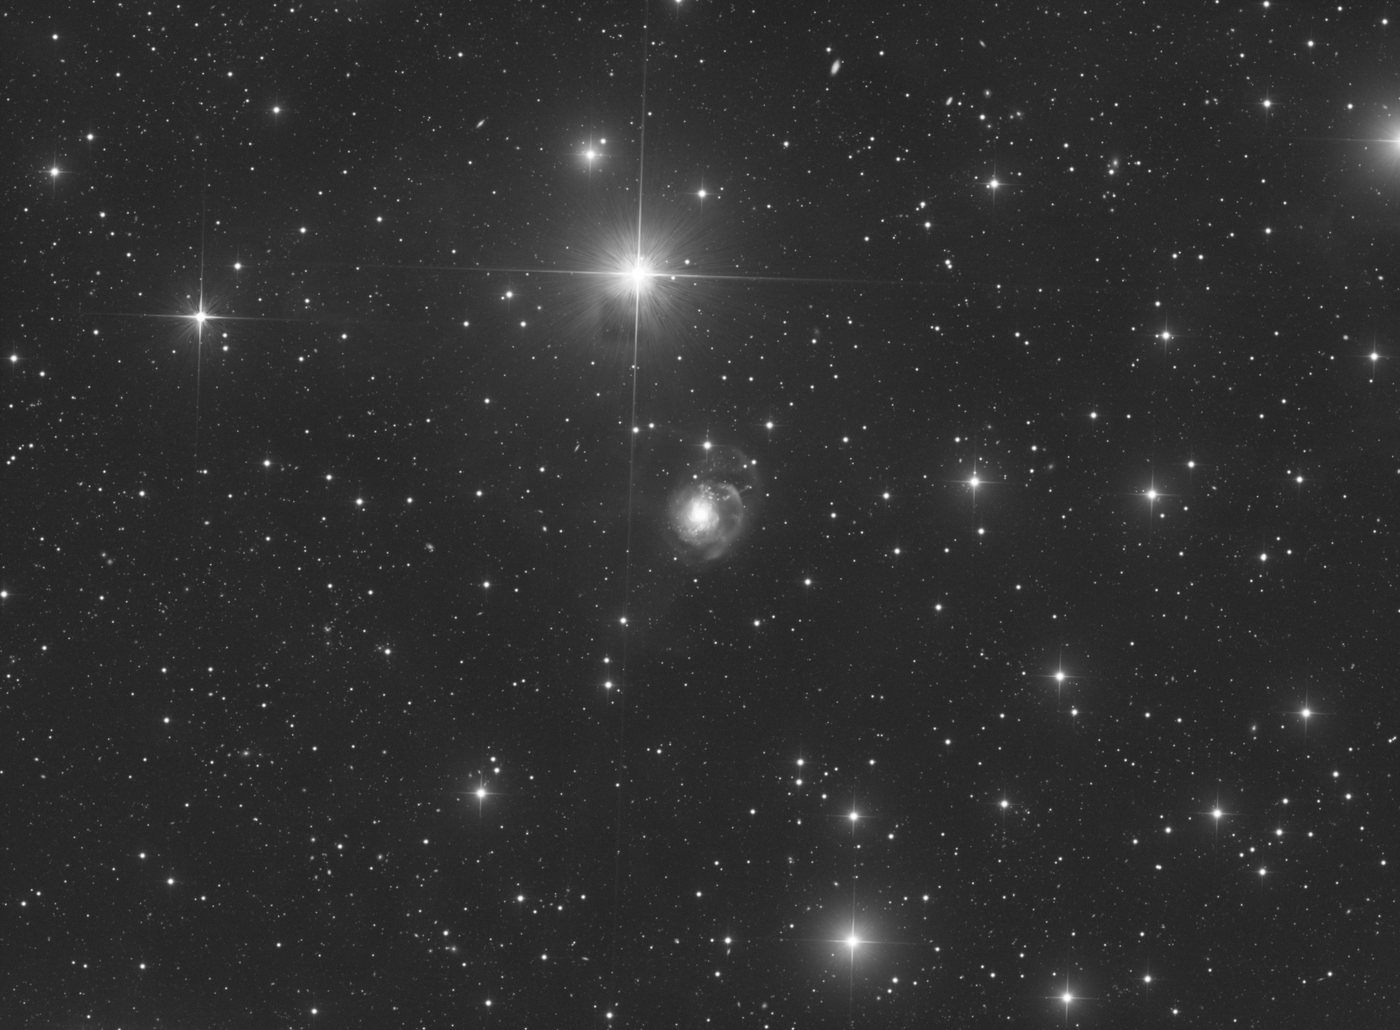
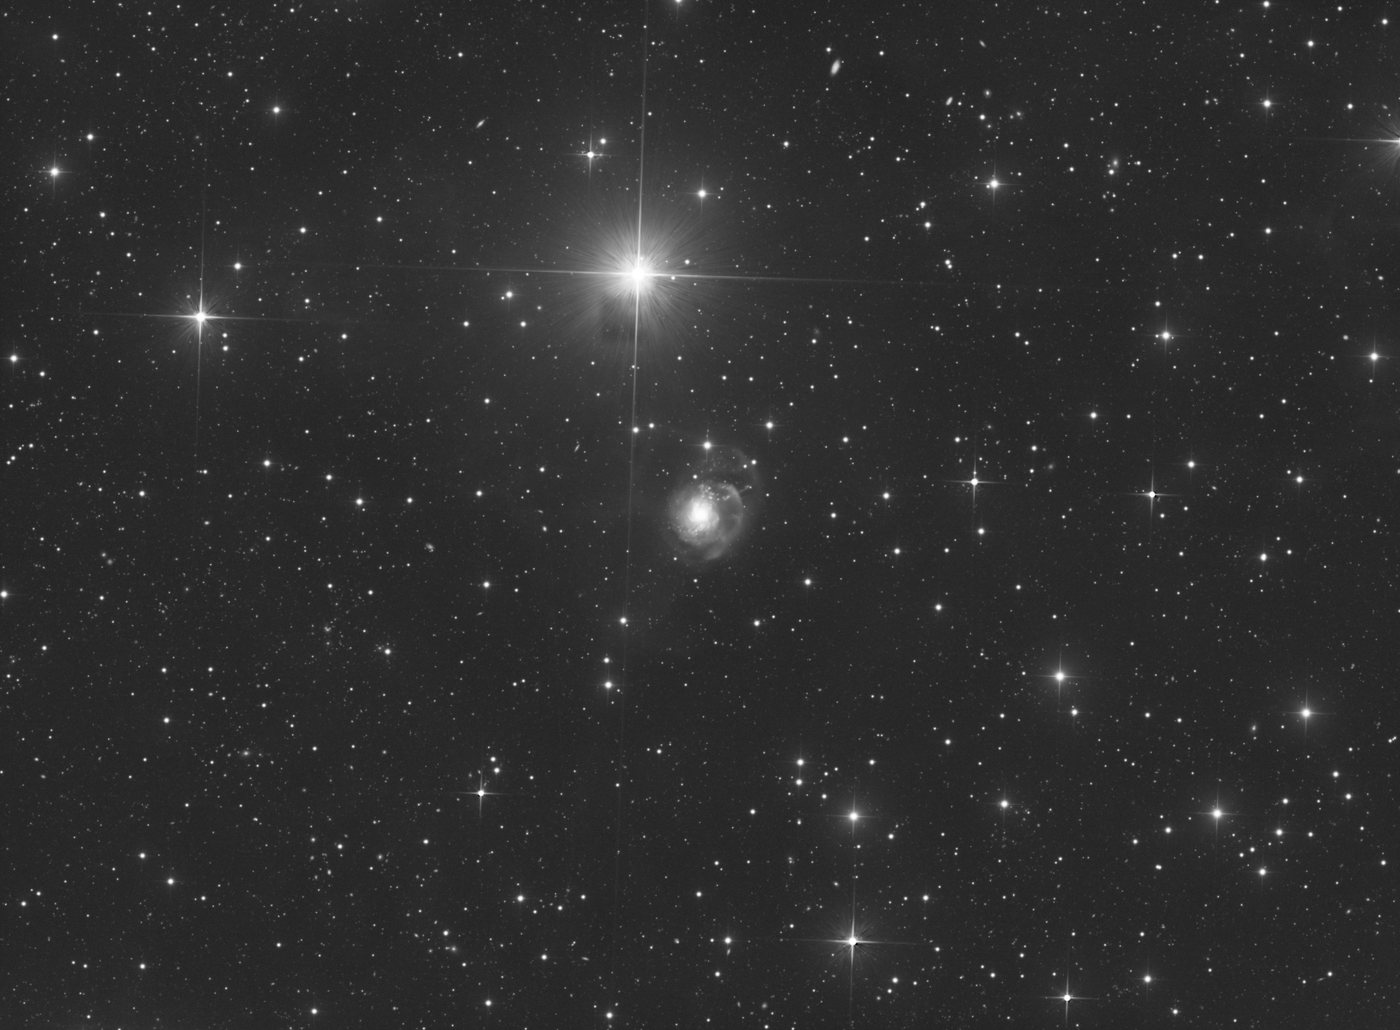
docs(dehalo): NGC 3310 with all eight stars and a star outside the frame
All detected stars ticked; a manual star at (11455, 1148), core r 15,
removes the halo at the right edge. Quick start shows how to add it;
new crops for the lower right field and the right edge.

diff --git a/docs/dehalo/examples/ngc-3310.md b/docs/dehalo/examples/ngc-3310.md
@@ -1,4 +1,4 @@
-# NGC 3310: only the two brightest stars
+# NGC 3310: a field-wide halo
 
 | | |
 |---|---|
@@ -7,8 +7,10 @@
 | Image | Luminance master, 11405 &times; 8388 px, 0.31"/px |
 | Preparation | GradientCorrection (default parameters) |
 
-HD 92095 and a second bright star are next to the galaxy NGC 3310. Their halos cover a large part of the field. The
-other detected stars have small halos that look natural, so we keep them: only stars 1 and 2 are ticked.
+HD 92095 and a second bright star are next to the galaxy NGC 3310. Their halos cover a large part of the field. Six
+smaller stars with saturated cores add their own halos. A ninth bright star is just outside the right edge of the
+frame; its halo and a diffraction spike come into the image at the top of the right edge. All eight detected stars
+are ticked, and the star outside the frame is added by hand.
 
 This is the same run as in the [Quick start](../quick-start.md).
 
@@ -19,7 +21,8 @@ Values that are different from the defaults are in **bold**.
 | Group | Setting | Value |
 |---|---|---|
 | Halo stars | Binning / Saturation / Min core r / Max stars | 4 / 0.95 / 6 / 8 |
-| Halo stars | Ticked stars | **1 and 2 only** |
+| Halo stars | Ticked stars | all 8 detected stars |
+| Halo stars | Manual star | **x 11455, y 1148, core r 15** (outside the frame) |
 | Model | Approach | Empirical profile + power-law tail |
 | Model | Fit inner radius / Max halo radius | 2.0 / **6952 px** |
 | Model | Profile smoothing / Iterations | 0.50 / 3 |
@@ -68,14 +71,40 @@ The second star (1800 &times; 1300 px crop):
 </img-comparison-slider>
 <div class="cmp-labels"><span>Before</span><span>After</span></div>
 
+The lower right part of the field with four of the smaller stars (5000 &times; 5400 px crop):
+
+<img-comparison-slider>
+  <img slot="first" src="../../assets/dehalo/ngc-3310/crop2_before.jpg" alt="Lower right part of the field before Dehalo">
+  <img slot="second" src="../../assets/dehalo/ngc-3310/crop2_after.jpg" alt="Lower right part of the field after Dehalo">
+</img-comparison-slider>
+<div class="cmp-labels"><span>Before</span><span>After</span></div>
+
+The top of the right edge, with the halo of the star outside the frame (1800 &times; 2000 px crop):
+
+<img-comparison-slider>
+  <img slot="first" src="../../assets/dehalo/ngc-3310/crop3_before.jpg" alt="Right edge before Dehalo">
+  <img slot="second" src="../../assets/dehalo/ngc-3310/crop3_after.jpg" alt="Right edge after Dehalo">
+</img-comparison-slider>
+<div class="cmp-labels"><span>Before</span><span>After</span></div>
+
 The removed halo (the `_halomodel` image, stretched):
 
 ![Removed halo of NGC 3310](../../assets/dehalo/ngc-3310/model.jpg)
 
 ## What to look at
 
-- **Untick instead of remove.** Stars 3 to 8 stay in the fit. Their light is still in the model of the field, so
-  the two large halos are measured correctly, but their own halos are not subtracted.
+- **A star outside the frame.** Its centre is not in the image, so detection cannot find it. We measured the
+  background along the right edge: the halo is brightest at y = 1148, where the diffraction spike enters the image,
+  and a radial fit of its decrease puts the centre about 50 px outside the edge. With the manual star at
+  (11455, 1148), the halo at the edge is removed; the background 400&ndash;900 px from it goes from 1.3 to 0.0
+  &times; 10<sup>-5</sup> above the image median. See
+  [Stars outside the frame](../controls.md#stars-outside-the-frame).
+- **All stars together.** All stars and the sky plane are fitted together, so the halos of the smaller stars are
+  separated from the large halo of HD 92095 around them. To keep the halo of a star, untick it; it stays in the fit.
+- **Small stars at full resolution.** With inner reduction 0.82 and no core protection, the edge of a small star
+  core can become hard, and a slightly lopsided core can get a dark notch on one side. This is visible only at full
+  resolution. If it shows in your image, use Core protection 3 with opacity 0.5
+  (see [Troubleshooting](../troubleshooting.md#a-dark-patch-on-one-side-of-a-star)).
 - **High inner reduction.** With 0.82, most of the bright inner halo of HD 92095 is removed. The diffraction spikes
   and the star core stay; they are not part of the azimuthal model.
 - **Artifacts in the master.** The dark patch and the marks near HD 92095 are in the data (see the note above).

diff --git a/docs/dehalo/quick-start.md b/docs/dehalo/quick-start.md
@@ -1,8 +1,9 @@
 # Quick start
 
 This tutorial makes one complete Dehalo run on the luminance master of NGC 3310. Two bright stars are next to the
-galaxy: HD 92095 (the brightest) and a second star to its left in the image. Their halos cover a large part of the field. We
-reduce only these two halos and keep all other stars as they are.
+galaxy: HD 92095 (the brightest) and a second star to its left in the image. Their halos cover a large part of the
+field, six smaller stars add their own halos, and one more bright star is just outside the right edge of the
+frame. We reduce the halos of all eight detected stars and add the star outside the frame by hand.
 
 Data: Dark Matters Astro, PlaneWave CDK14 and Moravian C5A-100M, 0.31"/px, 11405 &times; 8388 px.
 
@@ -32,13 +33,33 @@ The preview (right) shows the image with circles around each halo star:
 
 ## 3. Select the stars
 
-The star table lists the 8 detected stars, largest core first. For this tutorial, untick stars 3 to 8. An unticked
-star stays in the fit, so the models of the other stars still take its light into account, but its own halo is not
-subtracted.
+The star table lists the 8 detected stars, largest core first. For this tutorial, keep all of them ticked.
+
+To keep the halo of a star in the image, untick it. An unticked star stays in the fit, so the models of the other
+stars still take its light into account, but its own halo is not subtracted. Use **Remove selected rows** only for
+false detections.
 
 !!! tip
     To select a star in the preview, move the mouse over the preview and press ++space++. The selected star gets a
     cyan circle and its row is selected in the table.
+
+### Add the star outside the frame
+
+At the top of the right edge, a halo and a horizontal diffraction spike come into the image from a star just
+outside the frame. Detection finds only saturated cores in the image, so this star is not in the table. Add it by
+hand:
+
+1. Set **Shift+click core r** (below the star table) to **15**. This gives the star a size scale between the two
+   brightest stars.
+2. Move the mouse over the preview and zoom out with the mouse wheel until there is space to the right of the image.
+3. ++shift++ + click to the right of the image at **x 11455, y 1148**. The cursor position is shown above the
+   preview, on the right. The new star is marked *(m)* in the table and is selected.
+4. If the position is not exact, move the star with ++alt++ + drag. Change its core radius with ++plus++ /
+   ++minus++.
+
+The position comes from the halo: the halo at the edge is brightest at y = 1148, where the spike enters the image,
+and its decrease into the image puts the centre about 50 px outside the edge. Only the pixels inside the image are
+used for the profile of this star.
 
 ## 4. Set the model
 
@@ -67,7 +88,7 @@ The reduction settings do not start a new fit. The preview changes immediately.
 | Transition width (px) | 2425 | ...over this distance. |
 | Scale radii with star brightness | on | The second star gets smaller radii, in proportion to its core radius. |
 
-![Dialog with the two brightest stars ticked and the final settings](../assets/dehalo/quick-start/dialog_two_stars.jpg)
+![Dialog with all stars ticked, the manual star and the final settings](../assets/dehalo/quick-start/dialog_final.jpg)
 
 ## 6. Check the result in the preview
 

diff --git a/docs/dehalo/index.md b/docs/dehalo/index.md
@@ -54,7 +54,7 @@ calibration -> integration -> crop -> (gradient correction) -> DEHALO -> deconvo
 | [Preparing images](preparing-images.md) | Gradient correction, RGB composites, background neutralization, linked and unlinked preview stretch. |
 | [Dialog reference](controls.md) | Every control, with typical values. Mouse and keyboard in the preview. |
 | [Troubleshooting](troubleshooting.md) | No stars found, dark rings, too much or too little removed. |
-| [NGC 3310](examples/ngc-3310.md) | Process only the two brightest stars. |
+| [NGC 3310](examples/ngc-3310.md) | Two very bright stars and six smaller ones, a large field-wide halo. |
 | [M99](examples/m99.md) | A master that saturates below 1: set the Saturation. |
 | [NGC 3077](examples/ngc-3077.md) | A small image with small star cores, and a galaxy mask. |
 | [Arp 273](examples/arp-273.md) | A dense star field next to a galaxy pair. |

diff --git a/docs/dehalo/controls.md b/docs/dehalo/controls.md
@@ -2,7 +2,7 @@
 
 This page describes every control of the Dehalo dialog, with the default value and when to change it.
 
-![Dehalo dialog](../assets/dehalo/quick-start/dialog_two_stars.jpg)
+![Dehalo dialog](../assets/dehalo/quick-start/dialog_final.jpg)
 
 ## Images
 
